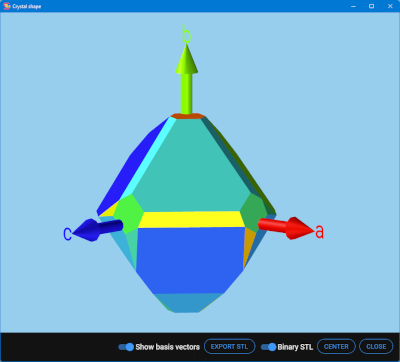
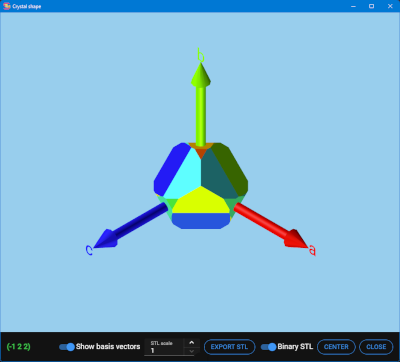
Fixed miller index computation. Fixed documentation for crystal shape.

diff --git a/src/electron/shapes/GetMiller.ts b/src/electron/shapes/GetMiller.ts
@@ -25,6 +25,22 @@
 import {gcd} from "mathjs";
 
 /**
+ * Check for zero value
+ *
+ * @param v - Value to test
+ * @returns True if it is almost zero
+ */
+const isZero = (v: number): boolean => Math.abs(v) < 1e-10;
+
+/**
+ * Return the value sign
+ *
+ * @param v - Value to test
+ * @returns If negative returns -1 else 1
+ */
+const sign = (v: number): number => (v >=0 ? 1 : -1);
+
+/**
  * From the multipliers along the basis axis extract the miller indices
  *
  * @param ta - Plane coordinates as fraction of the a base vector.
@@ -34,13 +50,71 @@ import {gcd} from "mathjs";
  */
 export const getMiller = (ta: number, tb: number, tc: number): string => {
 
+	// Special cases
+	const za = isZero(ta);
+	const zb = isZero(tb);
+	if(za && zb) return `(0 0 ${sign(tc)})`;
+	const zc = isZero(tc);
+	if(za && zc) return `(0 ${sign(tb)} 0)`;
+	if(zb && zc) return `(${sign(ta)} 0 0)`;
+
+	if(za || zb || zc) {
+		let minDot = Number.POSITIVE_INFINITY;
+		let minA = 0;
+		let minB = 0;
+		for(let a = -4; a <= 4; ++a) {
+			for(let b = -4; b <= 4; ++b) {
+				if(a === 0 && b === 0) continue;
+				let dot = 0;
+				if(za) {
+					const mb = 1/tb*a;
+					const mc = 1/tc*b;
+					const mean = (mb+mc)/2;
+					const db = mb-mean;
+					const dc = mc-mean;
+					dot = dc*dc+db*db;
+				}
+				else if(zb) {
+					const ma = 1/ta*a;
+					const mc = 1/tc*b;
+					const mean = (ma+mc)/2;
+					const da = ma-mean;
+					const dc = mc-mean;
+					dot = dc*dc+da*da;
+				}
+				else if(zc) {
+					const ma = 1/ta*a;
+					const mb = 1/tb*b;
+					const mean = (ma+mb)/2;
+					const da = ma-mean;
+					const db = mb-mean;
+					dot = db*db+da*da;
+				}
+
+				if(dot < minDot) {
+					minDot = dot;
+					minA = a;
+					minB = b;
+				}
+			}
+		}
+		if(za) return `(0 ${minA} ${minB})`;
+		if(zb) return `(${minA} 0 ${minB})`;
+		if(zc) return `(${minA} ${minB} 0)`;
+	}
+
+	// else
+	ta = 1/ta;
+	tb = 1/tb;
+	tc = 1/tc;
+
 	let minDot = Number.POSITIVE_INFINITY;
 	let minH = 0;
 	let minK = 0;
 	let minL = 0;
-	for(let h= -4; h <= 4; ++h) {
-		for(let k= -4; k <= 4; ++k) {
-			for(let l= -4; l <= 4; ++l) {
+	for(let h = -4; h <= 4; ++h) {
+		for(let k = -4; k <= 4; ++k) {
+			for(let l = -4; l <= 4; ++l) {
 				if(h === 0 && k === 0 && l === 0) continue;
 
 				const ma = ta*h;

diff --git a/src/electron/fingerprint/KDtree.d.ts b/src/electron/fingerprint/KDtree.d.ts
@@ -1,4 +1,9 @@
 /**
+ * Definitions for KDtree.js
+ * @packageDocumentation
+ *
+ * @author Mario Valle "mvalle at ikmail.com"
+ * @since 2025-10-17
  *
  * Copyright 2026 Mario Valle
  *

diff --git a/public/doc/secondary/crystal-shape.html b/public/doc/secondary/crystal-shape.html
@@ -23,7 +23,8 @@
 
 <p>This window shows the computed crystal shape for the current structure.</p>
 <p>The controls allow the visualization of the unit cell basis vectors and the centering of the visualization.</p>
-<p>The shape could be exported as text or binary STL file for 3D printing. The basis vectors are not exported.</p>
+<p>The shape could be exported as text or binary STL file for 3D printing. The basis vectors are not exported. It is also possible to change the scale of the output STL file.</p>
+<p>Ctrl-click on a facet gives its Miller indices on the lower left side of the window.</p>
 
 <p class="back-btn"><a href="../nodes/compute-crystal-shape.html" title="Return to Compute crystal shape documentation" class="back">Back to Compute crystal shape</a></p>
 </body>

diff --git a/src/electron/nodes/CrystalShape.ts b/src/electron/nodes/CrystalShape.ts
@@ -338,8 +338,7 @@ export class CrystalShape extends NodeCore {
 			const ta = a*basis[0]+b*basis[1]+c*basis[2];
 			const tb = a*basis[3]+b*basis[4]+c*basis[5];
 			const tc = a*basis[6]+b*basis[7]+c*basis[8];
-
-			const hkl = getMiller(1/ta, 1/tb, 1/tc);
+			const hkl = getMiller(ta, tb, tc);
 			miller.push(hkl);
 		}
 

diff --git a/src/components/ShowCrystalShape.vue b/src/components/ShowCrystalShape.vue
@@ -386,7 +386,7 @@ const exportSTL = (): void => {
 <v-app :theme class="layout-app">
     <div class="layout-main shape-viewer" />
     <v-container class="layout-buttons">
-      <v-label :text="millerText" class="flex-1-1 mr-2 result-label" style="width: 70px"/>
+      <v-label :text="millerText" class="flex-1-1 mr-2 result-label font-weight-bold" style="width: 70px"/>
       <v-switch v-model="visibleBV" label="Show basis vectors"
                 @update:modelValue="updateVisibility"/>
       <v-number-input v-model="scale" label="STL scale" class="mb-n6 mr-0"